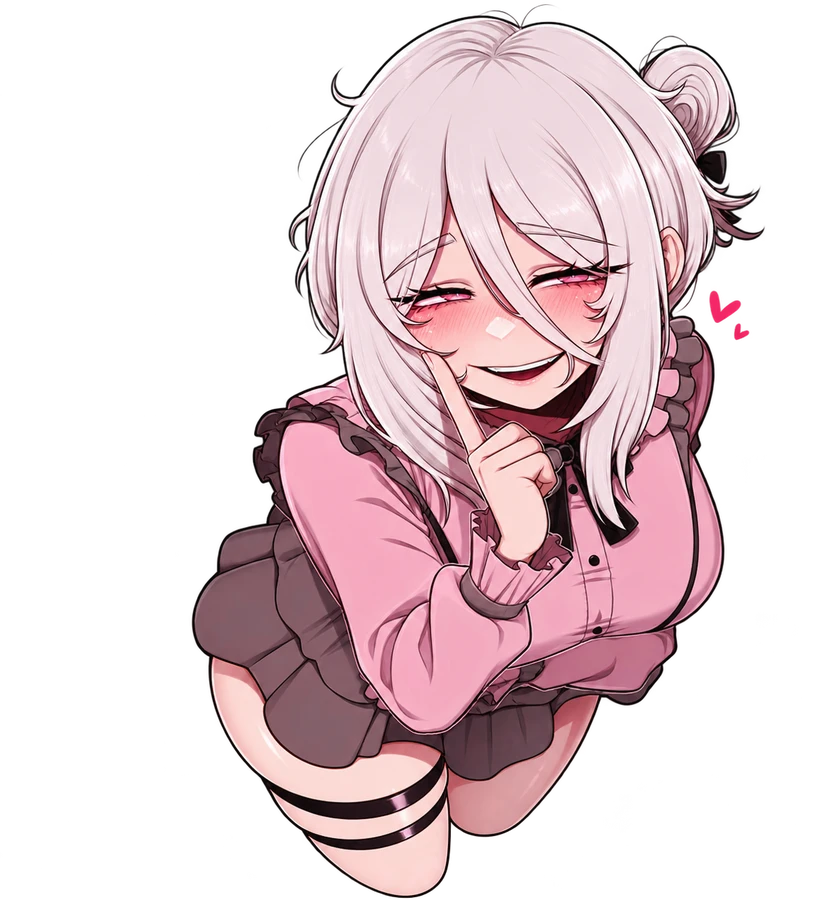
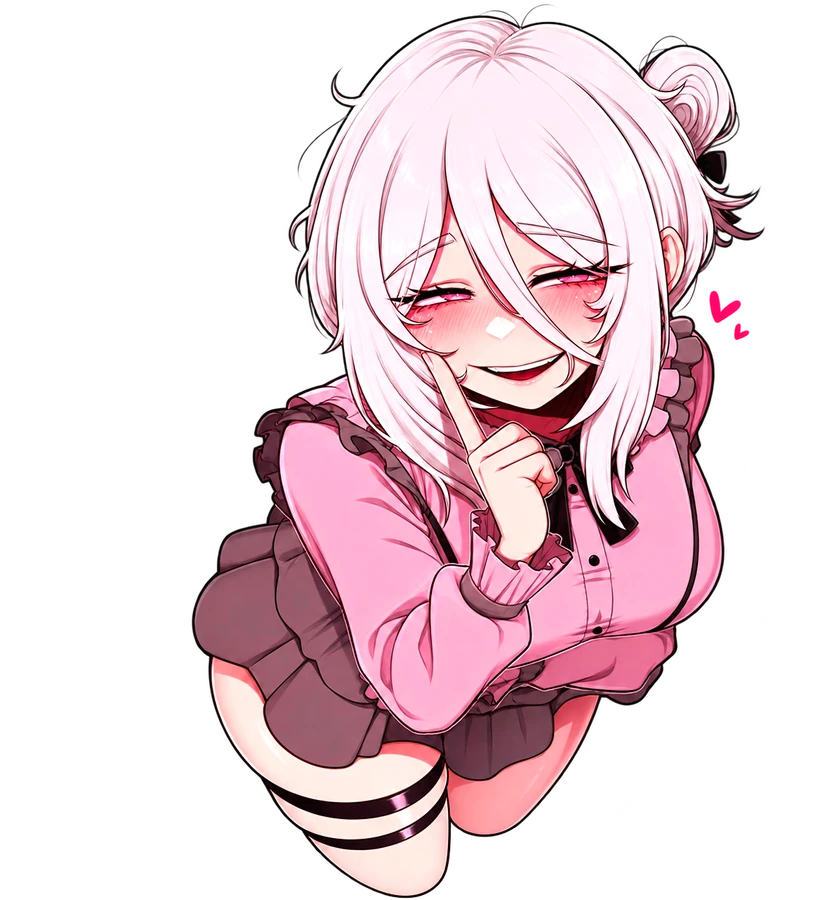
설정을 드롭다운 대신 팝업 모달로 변경, 우측 상단 마스코트 색감 보정

diff --git a/index.html b/index.html
@@ -28,18 +28,6 @@
       </div>
       <div class="settings-menu">
         <button type="button" class="reset-all" id="settingsBtn">설정</button>
-        <div class="settings-panel" id="settingsPanel" hidden>
-          <label class="ego-kw-toggle owned-only-toggle">
-            <input type="checkbox" id="ownedOnlyToggle">
-            <span class="toggle-track"></span>
-            <span>보유 인격/에고만 보기</span>
-          </label>
-          <button type="button" class="reset-all settings-owned-btn" id="ownedSettingsBtn">보유 설정</button>
-          <div class="fau-slider-block">
-            <div class="fau-slider-label" id="fauLevelLabel">순진한 파우스트</div>
-            <input type="range" id="fauLevelSlider" min="0" max="3" step="1" value="1">
-          </div>
-        </div>
       </div>
     </div>
     <div class="search-row" id="searchRow" hidden>
@@ -344,6 +332,29 @@
 <div id="kwTooltip" class="kw-tooltip" role="tooltip" hidden>
   <div class="kw-tooltip-term"></div>
   <div class="kw-tooltip-def"></div>
+</div>
+<div id="settingsModal" class="detail-modal" hidden>
+  <div class="detail-modal-backdrop" id="settingsBackdrop"></div>
+  <div class="detail-modal-panel settings-modal-panel">
+    <div class="detail-modal-header">
+      <span class="detail-modal-title">설정</span>
+      <button type="button" class="detail-modal-close" id="settingsClose" aria-label="닫기">
+        <svg width="18" height="18" viewBox="0 0 24 24" fill="none" stroke="currentColor" stroke-width="2" stroke-linecap="round"><path d="M18 6 6 18M6 6l12 12"/></svg>
+      </button>
+    </div>
+    <div class="detail-modal-body settings-modal-body">
+      <label class="ego-kw-toggle owned-only-toggle">
+        <input type="checkbox" id="ownedOnlyToggle">
+        <span class="toggle-track"></span>
+        <span>보유 인격/에고만 보기</span>
+      </label>
+      <button type="button" class="reset-all settings-owned-btn" id="ownedSettingsBtn">보유 설정</button>
+      <div class="fau-slider-block">
+        <div class="fau-slider-label" id="fauLevelLabel">순진한 파우스트</div>
+        <input type="range" id="fauLevelSlider" min="0" max="3" step="1" value="1">
+      </div>
+    </div>
+  </div>
 </div>
 <div id="skillSetDetailModal" class="detail-modal" hidden>
   <div class="detail-modal-backdrop" id="skillSetDetailBackdrop"></div>

diff --git a/style.css b/style.css
@@ -137,18 +137,13 @@
   /* 3단계: 네 모퉁이 전부, 화면/탭 상관없이 항상 */
   body[data-fau-level="3"] .mascot-corner{ display:block; }
 
-  /* ---------- 설정 메뉴 ---------- */
+  /* ---------- 설정 메뉴 (팝업 모달) ---------- */
   .settings-menu{ position:relative; margin-left:auto; }
-  .settings-panel{
-    position:absolute; top:calc(100% + 8px); right:0; z-index:30;
-    display:flex; flex-direction:column; gap:12px;
-    min-width:230px; padding:14px;
-    background:var(--surface); border:1px solid var(--border-strong);
-    border-radius:10px; box-shadow:0 10px 28px rgba(0,0,0,0.18);
-  }
-  .settings-panel .owned-only-toggle{ margin-bottom:0; white-space:nowrap; }
-  .settings-panel .settings-owned-btn{ width:100%; }
-  .fau-slider-block{ display:flex; flex-direction:column; gap:6px; padding-top:4px; border-top:1px solid var(--border); }
+  .settings-modal-panel{ max-width:340px; }
+  .settings-modal-body{ display:flex; flex-direction:column; gap:12px; }
+  .settings-modal-body .owned-only-toggle{ margin-bottom:0; white-space:nowrap; }
+  .settings-modal-body .settings-owned-btn{ width:100%; }
+  .fau-slider-block{ display:flex; flex-direction:column; gap:6px; padding-top:8px; border-top:1px solid var(--border); }
   .fau-slider-label{ font-size:12px; color:var(--text-muted); text-align:center; font-weight:600; }
   .fau-slider-block input[type="range"]{ width:100%; accent-color:var(--accent); }
   h1{

diff --git a/app.js b/app.js
@@ -5310,15 +5310,13 @@ function closeOwnedView(){
   else showSearchView();
   renderBoth();
 }
-const settingsMenu = document.querySelector(".settings-menu");
 const settingsBtn = document.getElementById("settingsBtn");
-const settingsPanel = document.getElementById("settingsPanel");
-function closeSettingsPanel(){ settingsPanel.hidden = true; }
-settingsBtn.addEventListener("click", () => { settingsPanel.hidden = !settingsPanel.hidden; });
-document.addEventListener("click", e => {
-  if (!settingsPanel.hidden && !settingsMenu.contains(e.target)) closeSettingsPanel();
-});
-document.addEventListener("keydown", e => { if (e.key === "Escape" && !settingsPanel.hidden) closeSettingsPanel(); });
+const settingsModal = document.getElementById("settingsModal");
+function closeSettingsPanel(){ settingsModal.hidden = true; }
+settingsBtn.addEventListener("click", () => { settingsModal.hidden = false; });
+document.getElementById("settingsClose").addEventListener("click", closeSettingsPanel);
+document.getElementById("settingsBackdrop").addEventListener("click", closeSettingsPanel);
+document.addEventListener("keydown", e => { if (e.key === "Escape" && !settingsModal.hidden) closeSettingsPanel(); });
 
 const FAU_LEVEL_KEY = "gesellschaft_fau_level";
 const FAU_LEVEL_LABELS = ["파우스트", "순진한 파우스트", "멍청한 파우스트", "파우웅!"];
